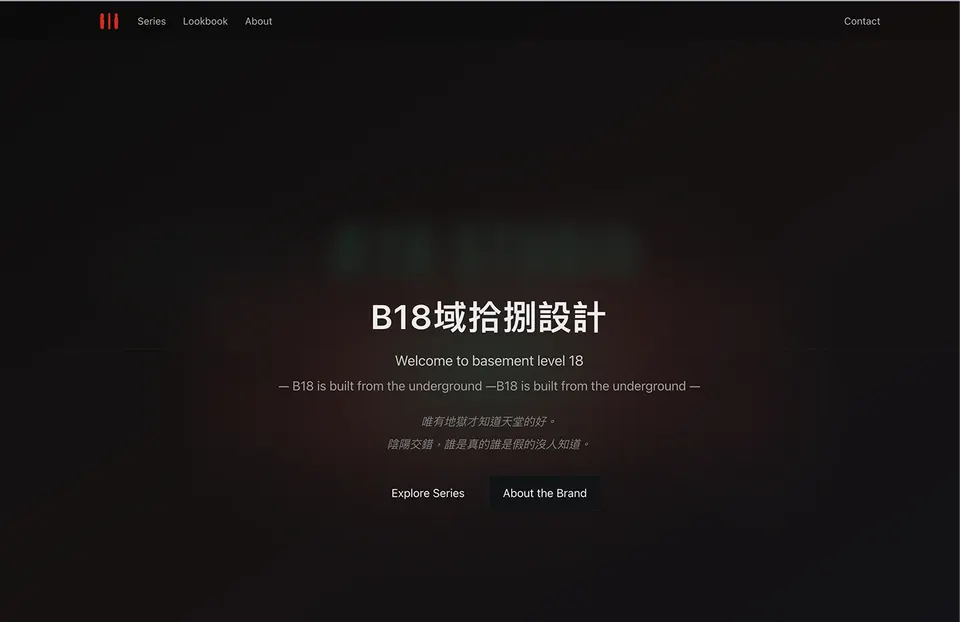
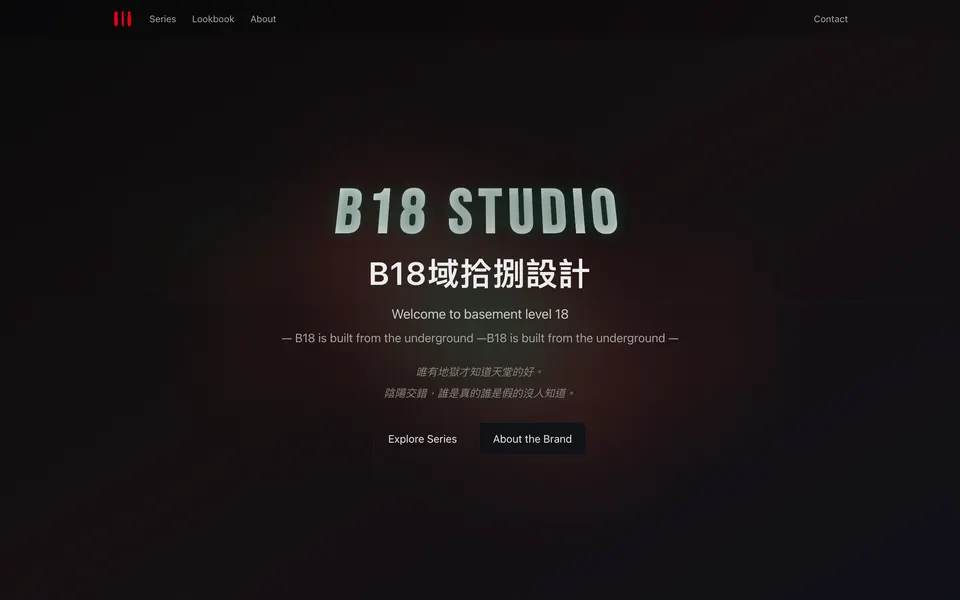
feat(lab): update b18 to the relaunched basement18 studio site
- point b18 to b18-seven.vercel.app and drop the offline mark
- rewrite zh-TW and en content around the new series, lookbook and brand story
- replace screenshots with the new site (home, series, lookbook, about, mobile)

diff --git a/.planning/STATE.md b/.planning/STATE.md
@@ -568,6 +568,6 @@ Resume file: .planning/spec-brand-show-launch.md
 ### 2026-11-03 CST — Lab 內容更新與失效連結標示（Claude）
 - 新增 Lab：`anti-coworker`（辦公室觀察日誌，網頁遊戲，分類改名「遊戲與實驗」）、`yes-fms`（YES 財務管理系統，基金分析＋資料管線）；`ckd2026` 依現況改寫為完整教學平台（前後測、100 例判讀、規則式模擬病人、教師六維評分、Supabase 帳號），改列全端＋精選。
 - 登入頁截圖由使用者自行登入後擷取，email／帳號名稱以遮罩處理；CKD 教師端改用「功能展示」模擬資料，不放真實學員成績。
-- 失效連結：frontmatter 新增 `deadLinks`／`linksCheckedAt`，卡片與詳情頁顯示斷鏈 chip、失效按鈕不可點；首頁 Lab 預覽把離線專案排最後。2026-11-02 檢查失效：b18、crmdev／on-boarding-system、experimentlab、resume-2025、hopenet-gf、ecommerce-dashboard 範例連結。
+- 失效連結：frontmatter 新增 `deadLinks`／`linksCheckedAt`，卡片與詳情頁顯示斷鏈 chip、失效按鈕不可點；首頁 Lab 預覽把離線專案排最後。2026-11-02 檢查失效：b18（11-03 已搬到 b18-seven.vercel.app 並恢復）、crmdev／on-boarding-system、experimentlab、resume-2025、hopenet-gf、ecommerce-dashboard 範例連結。
 - 補充內容：power-bi、shuyan-art、r-analysis（加 CKD 腸道菌相分析）、resume-2024（記錄 augustwang.com 現況）；8plus 換新截圖。
 - 待決定：ecommerce-dashboard 為範例內容，建議下架。
